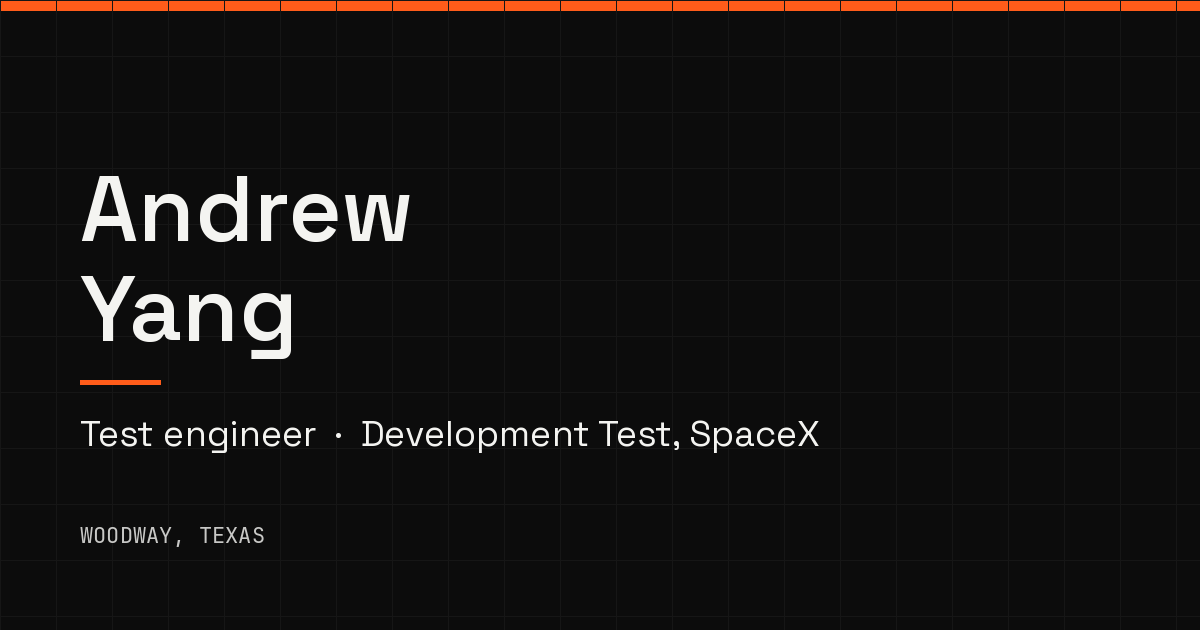
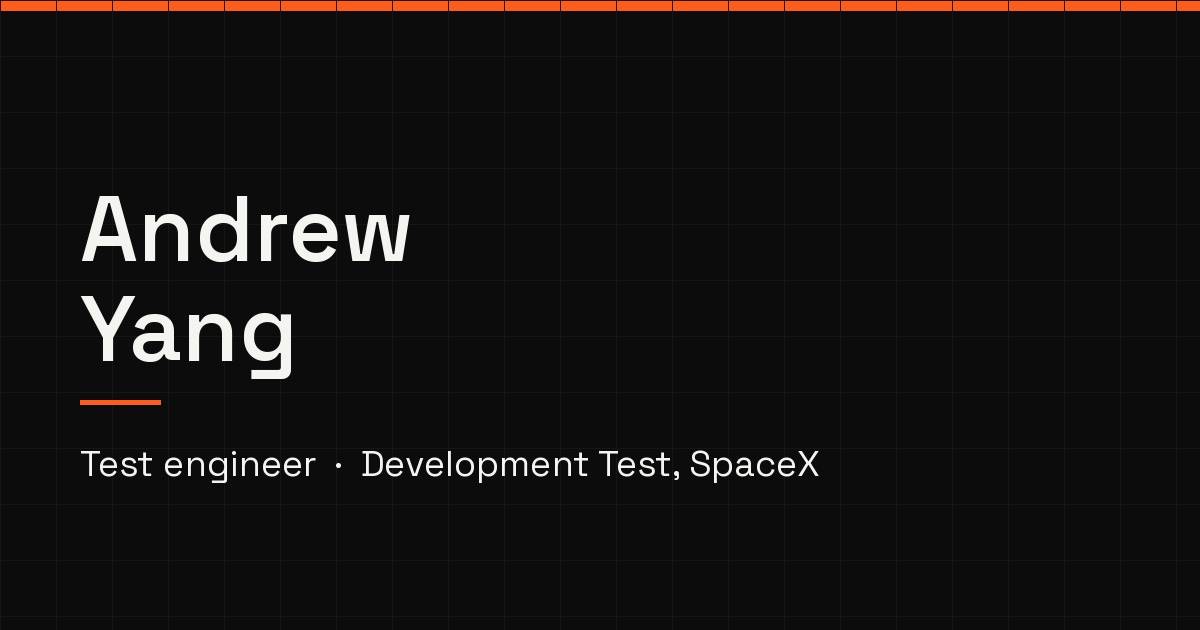
Remove location details and add the torsional stiffness rig photo.
City and state are gone from the pages, metadata, and social image. The 2022–2023 summary card now shows the chassis on the rig.

Changed region(s): [[0.0617, 0.2714, 0.3392, 0.6032], [0.0617, 0.6032, 0.6783, 0.754], [0.0617, 0.8143, 0.2158, 0.8746]]

diff --git a/index.html b/index.html
@@ -4,12 +4,12 @@
   <meta charset="utf-8">
   <meta name="viewport" content="width=device-width, initial-scale=1">
   <title>Andrew Yang — Test Engineer</title>
-  <meta name="description" content="Andrew Yang is a test engineer on SpaceX’s Development Test team. He owns campaigns from stand design through data acquisition and analysis. Based in Woodway, Texas.">
+  <meta name="description" content="Andrew Yang is a test engineer on SpaceX’s Development Test team. He owns campaigns from stand design through data acquisition and analysis.">
   <meta name="author" content="Andrew Yang">
   <meta name="theme-color" content="#0c0c0c">
   <link rel="canonical" href="https://mechishimi.github.io/">
   <meta property="og:title" content="Andrew Yang — Test Engineer">
-  <meta property="og:description" content="Test engineer on SpaceX’s Development Test team. Stand design through data acquisition and analysis. Woodway, Texas.">
+  <meta property="og:description" content="Test engineer on SpaceX’s Development Test team. Stand design through data acquisition and analysis.">
   <meta property="og:type" content="website">
   <meta property="og:url" content="https://mechishimi.github.io/">
   <meta property="og:image" content="https://mechishimi.github.io/og.png">
@@ -17,7 +17,7 @@
   <meta property="og:image:height" content="630">
   <meta name="twitter:card" content="summary_large_image">
   <meta name="twitter:title" content="Andrew Yang — Test Engineer">
-  <meta name="twitter:description" content="Test engineer on SpaceX’s Development Test team. Stand design through data acquisition and analysis. Woodway, Texas.">
+  <meta name="twitter:description" content="Test engineer on SpaceX’s Development Test team. Stand design through data acquisition and analysis.">
   <meta name="twitter:image" content="https://mechishimi.github.io/og.png">
   <link rel="icon" href="favicon.svg" type="image/svg+xml">
   <link rel="icon" href="favicon-32.png" sizes="32x32" type="image/png">
@@ -35,12 +35,6 @@
     "worksFor": { "@type": "Organization", "name": "SpaceX" },
     "email": "mailto:ahyang@duck.com",
     "url": "https://mechishimi.github.io/",
-    "address": {
-      "@type": "PostalAddress",
-      "addressLocality": "Woodway",
-      "addressRegion": "TX",
-      "addressCountry": "US"
-    },
     "alumniOf": { "@type": "CollegeOrUniversity", "name": "Carnegie Mellon University" },
     "sameAs": [
       "https://www.linkedin.com/in/ahyang2003/",
@@ -73,7 +67,7 @@
       </div>
       <div class="hero-inner">
         <div class="hero-copy">
-          <p class="eyebrow">Test engineer · Woodway, Texas</p>
+          <p class="eyebrow">Test engineer</p>
           <h1 id="hero-title">Andrew<br>Yang</h1>
           <p class="role">Development Test, SpaceX</p>
           <p class="lede">I own test campaigns from stand design through data acquisition and analysis.</p>
@@ -118,14 +112,10 @@
         <h2 class="sec-title">About</h2>
         <div class="about-grid">
           <div class="prose">
-            <p>I am a test engineer on the Development Test team at SpaceX in McGregor, Texas. I live in Woodway. A campaign is mine from the stand through acquisition and the numbers that come back.</p>
+            <p>I am a test engineer on the Development Test team at SpaceX. A campaign is mine from the stand through acquisition and the numbers that come back.</p>
             <p>Before SpaceX I was at Westinghouse, first on hardware qualification for the eVinci microreactor and then in transient analysis. I earned a B.S. and an M.S. in mechanical engineering at Carnegie Mellon, and from 2021 to 2024 I worked on Carnegie Mellon Racing in structures, chassis validation, the driver interface, and welding. I also staffed TechSpark, the campus fabrication lab.</p>
           </div>
           <dl class="facts">
-            <div>
-              <dt>Based in</dt>
-              <dd>Woodway, Texas</dd>
-            </div>
             <div>
               <dt>Role</dt>
               <dd>Test Engineer, Development Test, SpaceX</dd>
@@ -155,7 +145,6 @@
           <article class="job">
             <div>
               <p class="when">June 2026 – present</p>
-              <p class="where">McGregor, Texas</p>
             </div>
             <div>
               <h3>Test Engineer, Development Test</h3>
@@ -166,7 +155,6 @@
           <article class="job">
             <div>
               <p class="when">Nov 2025 – May 2026</p>
-              <p class="where">Pittsburgh, Pennsylvania</p>
             </div>
             <div>
               <h3>Transient Analysis Engineer I</h3>
@@ -177,7 +165,6 @@
           <article class="job">
             <div>
               <p class="when">Aug 2024 – Nov 2025</p>
-              <p class="where">Pittsburgh, Pennsylvania</p>
             </div>
             <div>
               <h3>eVinci Test Engineer I / Intern</h3>
@@ -188,7 +175,6 @@
           <article class="job">
             <div>
               <p class="when">Summer 2023</p>
-              <p class="where">Erie, Pennsylvania</p>
             </div>
             <div>
               <h3>Validation Intern</h3>
@@ -199,7 +185,6 @@
           <article class="job">
             <div>
               <p class="when">Oct 2021 – Dec 2024</p>
-              <p class="where">Pittsburgh, Pennsylvania</p>
             </div>
             <div>
               <h3>Welding lead, driver interface, chassis, structures</h3>
@@ -210,7 +195,6 @@
           <article class="job">
             <div>
               <p class="when">May 2024 · Dec 2024</p>
-              <p class="where">Pittsburgh, Pennsylvania</p>
             </div>
             <div>
               <h3>B.S. and M.S. Mechanical Engineering</h3>
@@ -257,10 +241,16 @@
             <h3>Welding lead</h3>
             <p>TIG welding in steel, aluminum, and titanium for a Formula SAE car. Designed jigs and fixtures, including a modular jig system that cut weld setup time by 50%, and trained the fabrication team.</p>
           </article>
-          <article class="card card-static">
-            <p class="kicker">Summary · 2022–2023</p>
-            <h3>Torsional stiffness rig</h3>
-            <p>Designed and built a rig to measure chassis rigidity on the 2023 Formula SAE car and compare it with FEA. The measurements went back into structural decisions.</p>
+          <article class="card card-shot">
+            <figure class="card-media card-media-photo">
+              <img src="images/torsion-rig.webp" width="963" height="1280" alt="Aluminum monocoque chassis tub mounted on a torsional stiffness rig" loading="lazy" decoding="async">
+            </figure>
+            <div class="card-body">
+              <p class="kicker">Summary · 2022–2023</p>
+              <h3>Torsional stiffness rig</h3>
+              <p>Designed and built a rig to measure chassis rigidity on the 2023 Formula SAE car and compare it with FEA. The measurements went back into structural decisions.</p>
+              <p class="shot-caption">Structural systems on 24E being torsionally tested</p>
+            </div>
           </article>
           <article class="card card-static">
             <p class="kicker">Summary · 2023–2024</p>
@@ -336,7 +326,7 @@
 
   <footer class="site-footer">
     <div class="footer-inner">
-      <p>Andrew Yang · Test engineer · Woodway, Texas</p>
+      <p>Andrew Yang · Test engineer</p>
       <p>Hosted on GitHub Pages</p>
     </div>
   </footer>

diff --git a/project-1.html b/project-1.html
@@ -95,7 +95,7 @@
         <div>
           <div class="block prose">
             <h2>Overview</h2>
-            <p>Pittsburgh’s hills make a purely mechanical boost useful. This capstone built an energy recovery attachment that retrofits onto a standard bicycle. No electronics, no battery, no motor.</p>
+            <p>Steep climbs make a purely mechanical boost useful. This capstone built an energy recovery attachment that retrofits onto a standard bicycle. No electronics, no battery, and no motor.</p>
             <p>The system stores kinetic energy during downhill coasting by coiling a strong elastic band through a gear-driven mechanism linked to the rear wheel. A three-position lever switches between charging, neutral, and discharging. When the rider needs a burst of acceleration at a stop or on an uphill, a ratchet releases and the elastic uncoils, driving the rear wheel forward.</p>
             <p>The project received Most Innovative at the CMU Design Expo in 2024.</p>
           </div>
@@ -148,7 +148,7 @@
 
   <footer class="site-footer">
     <div class="footer-inner">
-      <p>Andrew Yang · Test engineer · Woodway, Texas</p>
+      <p>Andrew Yang · Test engineer</p>
       <p><a href="mailto:ahyang@duck.com">ahyang@duck.com</a></p>
     </div>
   </footer>

diff --git a/css/site.css b/css/site.css
@@ -433,16 +433,13 @@ a { color: inherit; }
 
 .job:last-child { border-bottom: 1px solid var(--line); }
 
-.when,
-.where {
+.when {
   font-family: var(--mono);
   font-size: 0.8125rem;
   letter-spacing: 0.06em;
   text-transform: uppercase;
   color: var(--muted);
 }
-
-.where { margin-top: 0.35rem; text-transform: none; letter-spacing: 0; font-size: 0.9375rem; }
 
 .job h3 {
   font-size: clamp(1.25rem, 2vw, 1.5rem);
@@ -467,6 +464,7 @@ a { color: inherit; }
 .summaries {
   grid-template-columns: 1fr 1fr 1fr;
   margin-top: 1rem;
+  align-items: start;
 }
 
 .card {
@@ -533,6 +531,24 @@ a { color: inherit; }
 }
 
 .card-static { padding: 1.2rem 1.25rem 1.35rem; }
+
+.card-shot { display: flex; flex-direction: column; }
+
+.card-media-photo {
+  margin: 0;
+  aspect-ratio: 3 / 4;
+  background: #141414;
+}
+
+.card-media-photo img { object-fit: cover; }
+
+.card .shot-caption {
+  margin-top: 0.35rem;
+  font-family: var(--mono);
+  font-size: 0.8125rem;
+  letter-spacing: 0.02em;
+  color: var(--ink-muted);
+}
 
 .card-static p + p { margin-top: 0.55rem; }
 

diff --git a/project-2.html b/project-2.html
@@ -157,7 +157,7 @@
 
   <footer class="site-footer">
     <div class="footer-inner">
-      <p>Andrew Yang · Test engineer · Woodway, Texas</p>
+      <p>Andrew Yang · Test engineer</p>
       <p><a href="mailto:ahyang@duck.com">ahyang@duck.com</a></p>
     </div>
   </footer>
